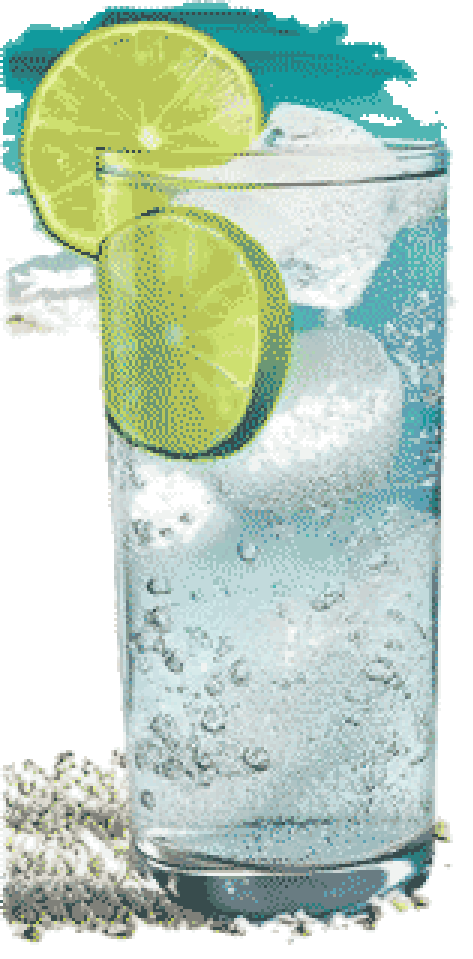
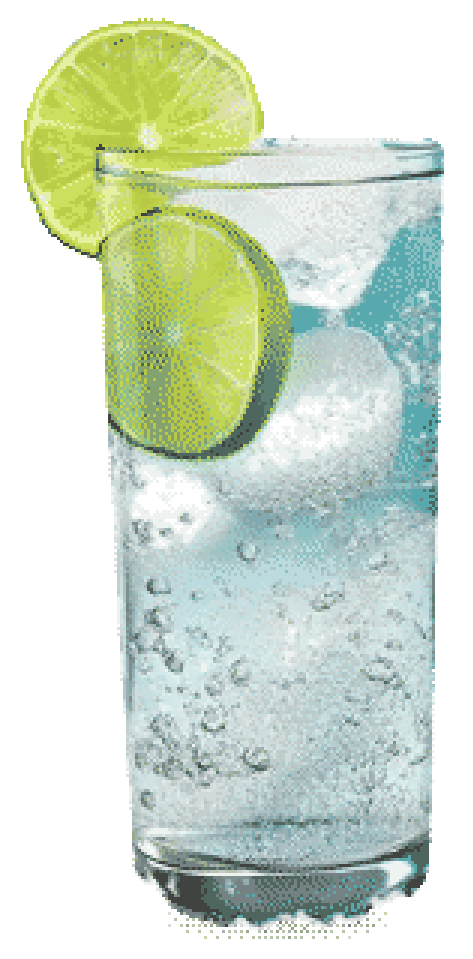
Focus Aero: cut the glass out cleanly (no sea/sand patch), clean contact shadow
Claude-Session: https://claude.ai/code/session_01HNXf8HvpZKxZ2L1VgheEA9

Changed region(s): [[0.0, 0.0, 0.9767, 0.9979]]

diff --git a/src/focus/aeroLook.js b/src/focus/aeroLook.js
@@ -31,7 +31,7 @@ export const AERO_LOOK = {
       rect: {"x": 0, "y": 847, "w": 473, "h": 959}, ...{"spark": [0.4, 0.45, 0.57]},
       glow: require("../../assets/aero3/water-glow.webp"),
       frames: [require("../../assets/aero3/water-00.webp"), require("../../assets/aero3/water-01.webp"), require("../../assets/aero3/water-02.webp"), require("../../assets/aero3/water-03.webp"), require("../../assets/aero3/water-04.webp"), require("../../assets/aero3/water-05.webp"), require("../../assets/aero3/water-06.webp"), require("../../assets/aero3/water-07.webp"), require("../../assets/aero3/water-08.webp"), require("../../assets/aero3/water-09.webp"), require("../../assets/aero3/water-10.webp"), require("../../assets/aero3/water-11.webp"), require("../../assets/aero3/water-12.webp")],
-      hit: [[0.059, 0.059, 0.861, 0.872], [0.059, 0.059, 0.861, 0.872], [0.059, 0.059, 0.861, 0.872], [0.059, 0.059, 0.861, 0.872], [0.059, 0.059, 0.861, 0.872], [0.059, 0.059, 0.861, 0.872], [0.059, 0.059, 0.861, 0.872], [0.059, 0.059, 0.861, 0.872], [0.059, 0.059, 0.861, 0.872], [0.059, 0.059, 0.861, 0.872], [0.059, 0.059, 0.861, 0.872], [0.059, 0.059, 0.861, 0.872], [0.059, 0.059, 0.861, 0.872]],
+      hit: [[0.1, 0.077, 0.787, 0.836], [0.1, 0.077, 0.787, 0.836], [0.1, 0.077, 0.787, 0.836], [0.1, 0.077, 0.787, 0.836], [0.1, 0.077, 0.787, 0.836], [0.1, 0.077, 0.787, 0.836], [0.1, 0.077, 0.787, 0.836], [0.1, 0.077, 0.787, 0.836], [0.1, 0.077, 0.787, 0.836], [0.1, 0.077, 0.787, 0.836], [0.1, 0.077, 0.787, 0.836], [0.1, 0.077, 0.787, 0.836], [0.1, 0.077, 0.787, 0.836]],
     },
     eat: {
       rect: {"x": 163, "y": 1329, "w": 744, "h": 579}, ...{"spark": [0.52, 0.42, 0.42]},

diff --git a/tools/aero/build.py b/tools/aero/build.py
@@ -78,7 +78,18 @@ def load_rgba(f):
 # ---------------------------------------------------------------- sources -> smooth RGBA frames on their layer
 def water():  # glass filling: 25 smooth frames -> 13
     fs = sorted(glob.glob(f"{SRC}/water/wf-*.webp"))[::2]
-    fr = [load_rgba(f) for f in fs]; return {"rect": {"x": 0, "y": 847, "w": 473, "h": 959}, "frames": fr, "obj": [f[..., 3] for f in fr]}
+    # The frames came out of the photo with a ragged patch of sea and sand around the glass: keep only the glass and
+    # lime (SAM3 mask, src/water/mask.png) and give it a clean contact shadow on the sand instead.
+    m = nd.gaussian_filter((np.asarray(Image.open(f"{SRC}/water/mask.png")) > 127).astype(np.float32), 1.0)
+    ys, xs = np.where(m > 0.5); base = ys.max(); foot = xs[ys > base - 30]; cx, ew = (foot.min() + foot.max()) / 2, (foot.max() - foot.min()) * 0.62
+    yy, xx = np.mgrid[0:m.shape[0], 0:m.shape[1]]
+    sh = nd.gaussian_filter((((xx - cx) / ew) ** 2 + ((yy - base + 8) / (ew * 0.2)) ** 2 < 1).astype(np.float32), ew * 0.1) * 0.45
+    fr = []
+    for f in fs:
+        a = load_rgba(f); ga = a[..., 3] * m; al = ga + sh * (1 - ga)
+        rgb = (a[..., :3] * ga[..., None] + np.array([0.30, 0.27, 0.24]) * (sh * (1 - ga))[..., None]) / np.maximum(al[..., None], 1e-4)
+        fr.append(np.dstack([rgb, al]))
+    return {"rect": {"x": 0, "y": 847, "w": 473, "h": 959}, "frames": fr, "obj": [f[..., 3] * m for f in [load_rgba(x) for x in fs]]}
 
 def pile():  # fruit added one piece at a time: 7 stop-motion frames
     fr = [load_rgba(f) for f in sorted(glob.glob(f"{SRC}/pile/pile-*.webp"))]
